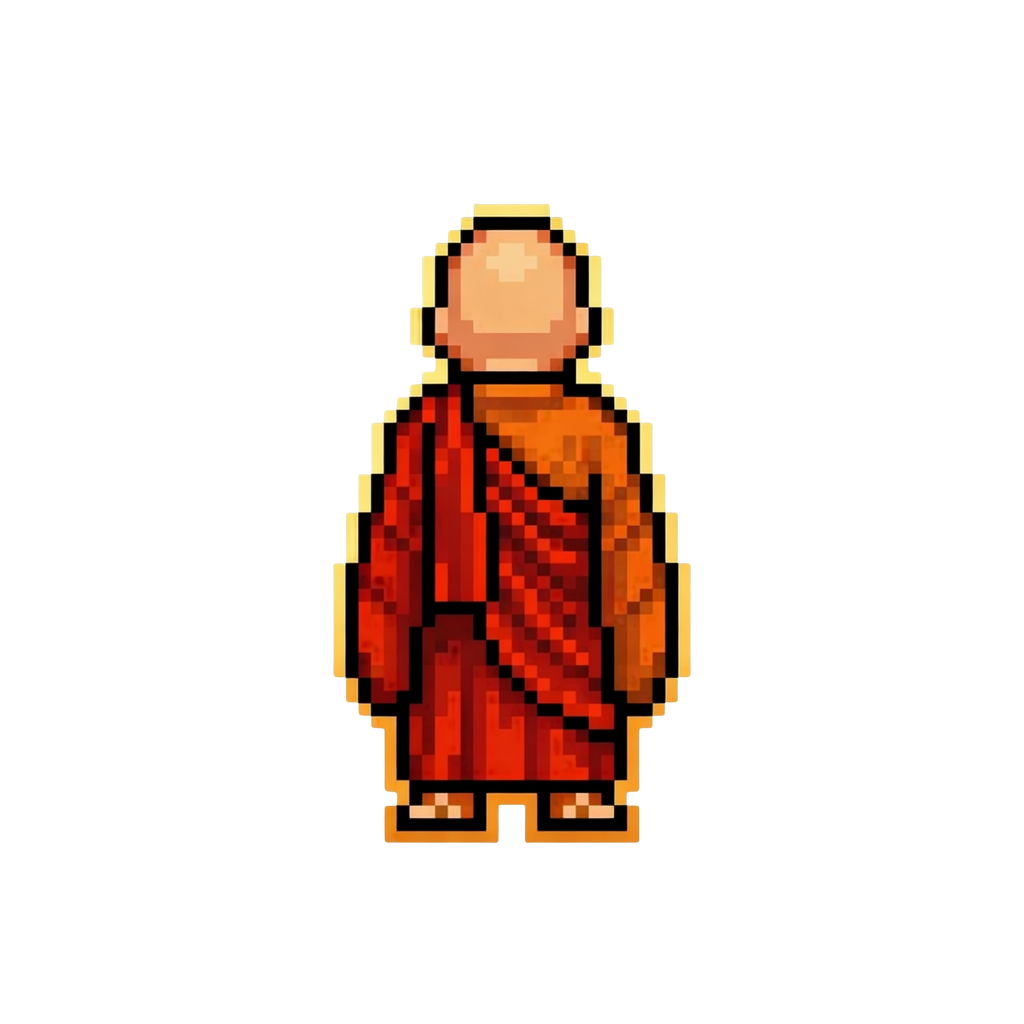
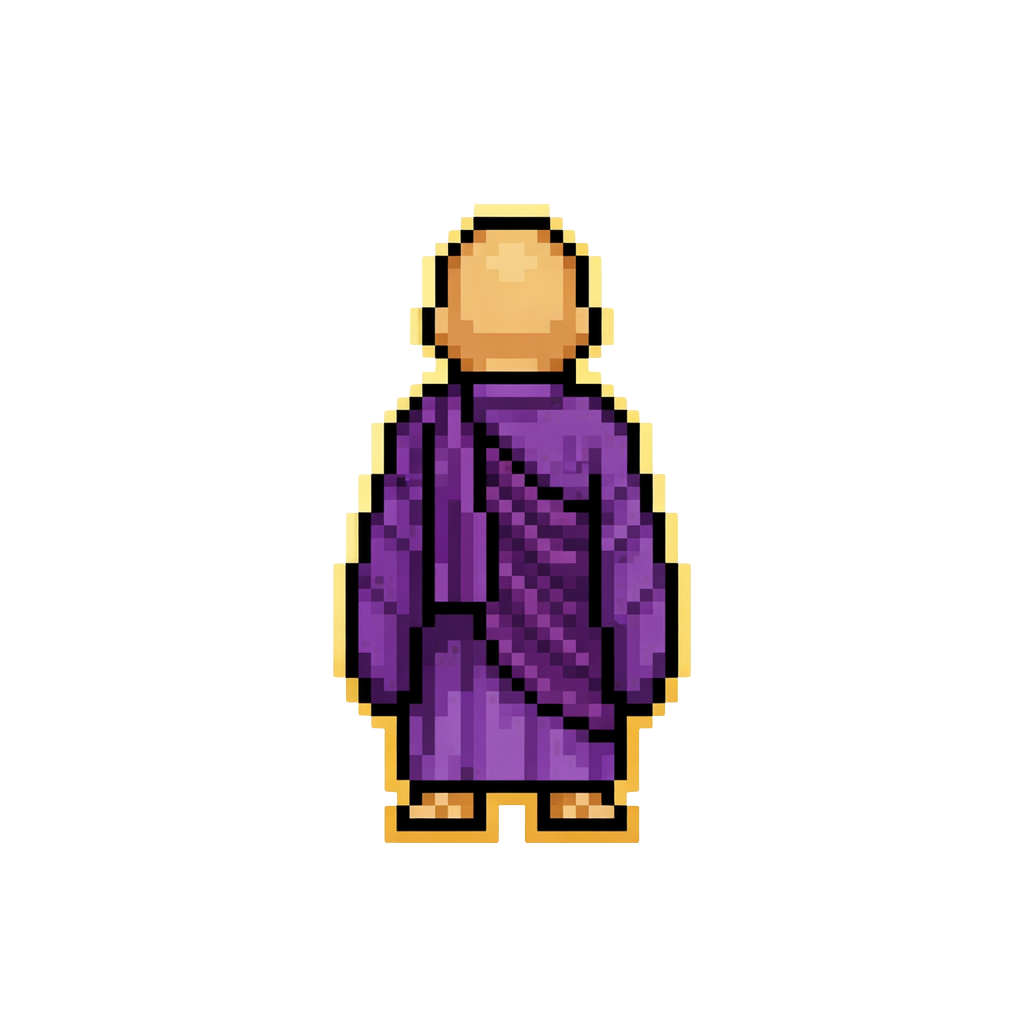
Refactor code structure for improved readability and maintainability

diff --git a/assets/js/ui.js b/assets/js/ui.js
@@ -181,6 +181,19 @@ function displayCumulativeStats() {
     `;
 }
 
+// レベルに基づいてタイトル画面の画像を更新する関数
+function updateTitleImages(level = 'easy') {
+    // イントロ画像を更新
+    introMonkHappy.src = monkHappySources[level] || monkHappySources.easy;
+    introMonkSad.src = monkSadSources[level] || monkSadSources.easy;
+    
+    // 永続的な画像を更新
+    const persistentHappy = document.querySelector('.persistent-happy');
+    const persistentSad = document.querySelector('.persistent-sad');
+    if (persistentHappy) persistentHappy.src = monkHappySources[level] || monkHappySources.easy;
+    if (persistentSad) persistentSad.src = monkSadSources[level] || monkSadSources.easy;
+}
+
 // レベル進行システム
 function loadClearedLevels() {
     try {
@@ -426,6 +439,10 @@ function showTitle() {
     infoPanel.classList.add('hidden');
     virtualControls.classList.add('hidden');
     bonnouMessageContainer.innerHTML = '';
+
+    // 最後にプレイしたレベルまたはデフォルト（easy）の画像を設定
+    const lastLevel = GS.level.current || 'easy';
+    updateTitleImages(lastLevel);
 
     if (!GS.intro.played) {
         startTitleIntro();

diff --git a/assets/js/game.js b/assets/js/game.js
@@ -19,6 +19,9 @@ function startGame(level) {
 
     bonnouMessageContainer.innerHTML = '';
 
+    // ゲーム開始時にタイトル画像も現在のレベルに更新
+    updateTitleImages(level);
+
     stopSound('gameover');
     stopSound('clear');
     playSound('bgm');
@@ -286,7 +289,12 @@ function gameOver(win) {
     }
 
     const resultImage = document.getElementById('resultImage');
-    resultImage.src = win ? 'images/monk/monk_happy.png' : 'images/monk/monk_sad.png';
+    const level = GS.level.current;
+    if (win) {
+        resultImage.src = monkHappySources[level] || monkHappySources.easy;
+    } else {
+        resultImage.src = monkSadSources[level] || monkSadSources.easy;
+    }
 }
 
 // ゲーム更新

diff --git a/assets/js/config.js b/assets/js/config.js
@@ -84,6 +84,18 @@ const monkBackSources = {
     hard: 'images/monk/monk_back_3.png',
     demon: 'images/monk/monk_back_4.png'
 };
+const monkHappySources = {
+    easy: 'images/monk/monk_happy_1.png',
+    normal: 'images/monk/monk_happy_2.png',
+    hard: 'images/monk/monk_happy_3.png',
+    demon: 'images/monk/monk_happy_4.png'
+};
+const monkSadSources = {
+    easy: 'images/monk/monk_sad_1.png',
+    normal: 'images/monk/monk_sad_2.png',
+    hard: 'images/monk/monk_sad_3.png',
+    demon: 'images/monk/monk_sad_4.png'
+};
 monkImage.src = monkBackSources.easy;
 
 const bulletImage = new Image();

diff --git a/assets/js/main.js b/assets/js/main.js
@@ -56,6 +56,7 @@ initSettings();
 GS.loadPersistentStats(); // 累計データをロード
 Renderer.preCacheEnemies(); // 煩悩画像を事前キャッシュ
 fetchAndDisplayVisitorCount(); // 訪問者数を取得・表示
+updateTitleImages('easy'); // 初期画像をeasyレベルに設定
 
 
 // キャンバスリサイズ処理
